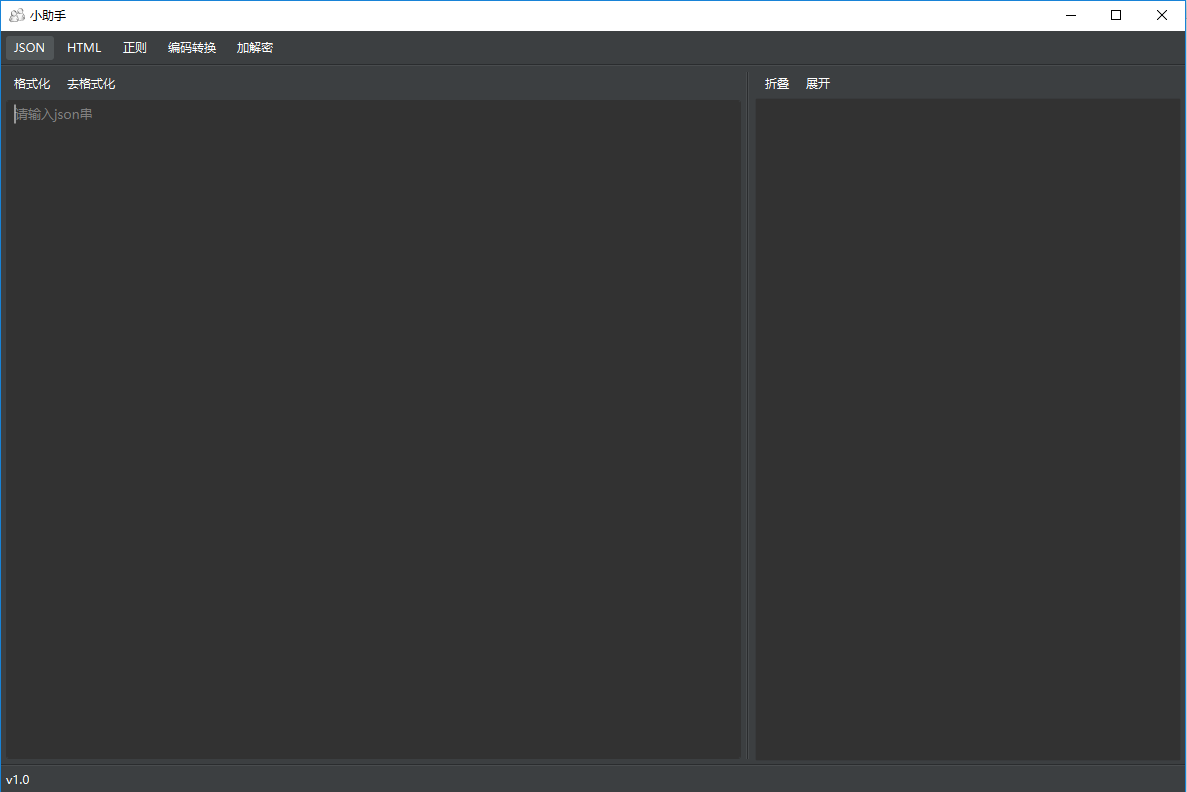
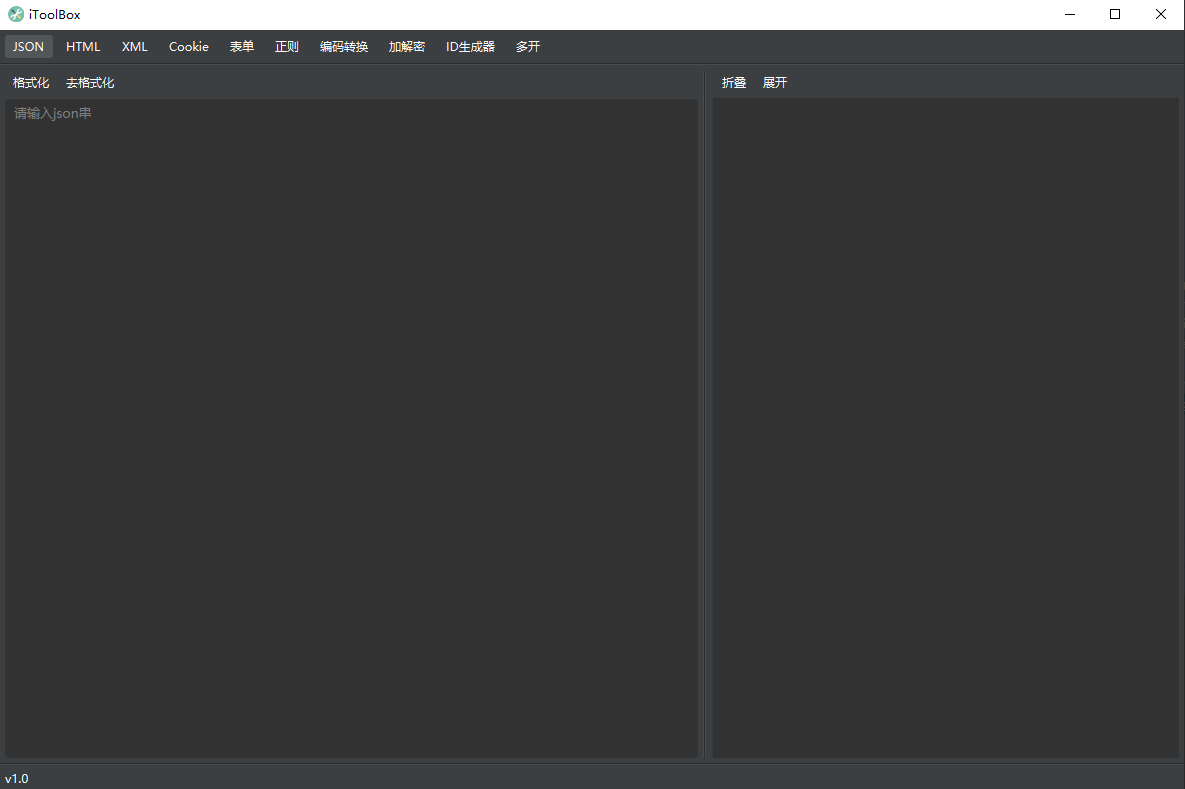
修改readme

diff --git a/README.md b/README.md
@@ -1,11 +1,15 @@
-# 开发小助手
+# 开发工具箱
 
 ---
 
 1. Json格式化
 2. HTML格式化
-3. 正则匹配
-4. 编码转换
-5. 加解密
+3. XML格式化
+4. Cookie格式化
+5. 表单格式化
+6. 正则匹配
+7. 编码转换
+8. 加解密
+9. ID生成器
 
 ![Image](doc/1.png)
